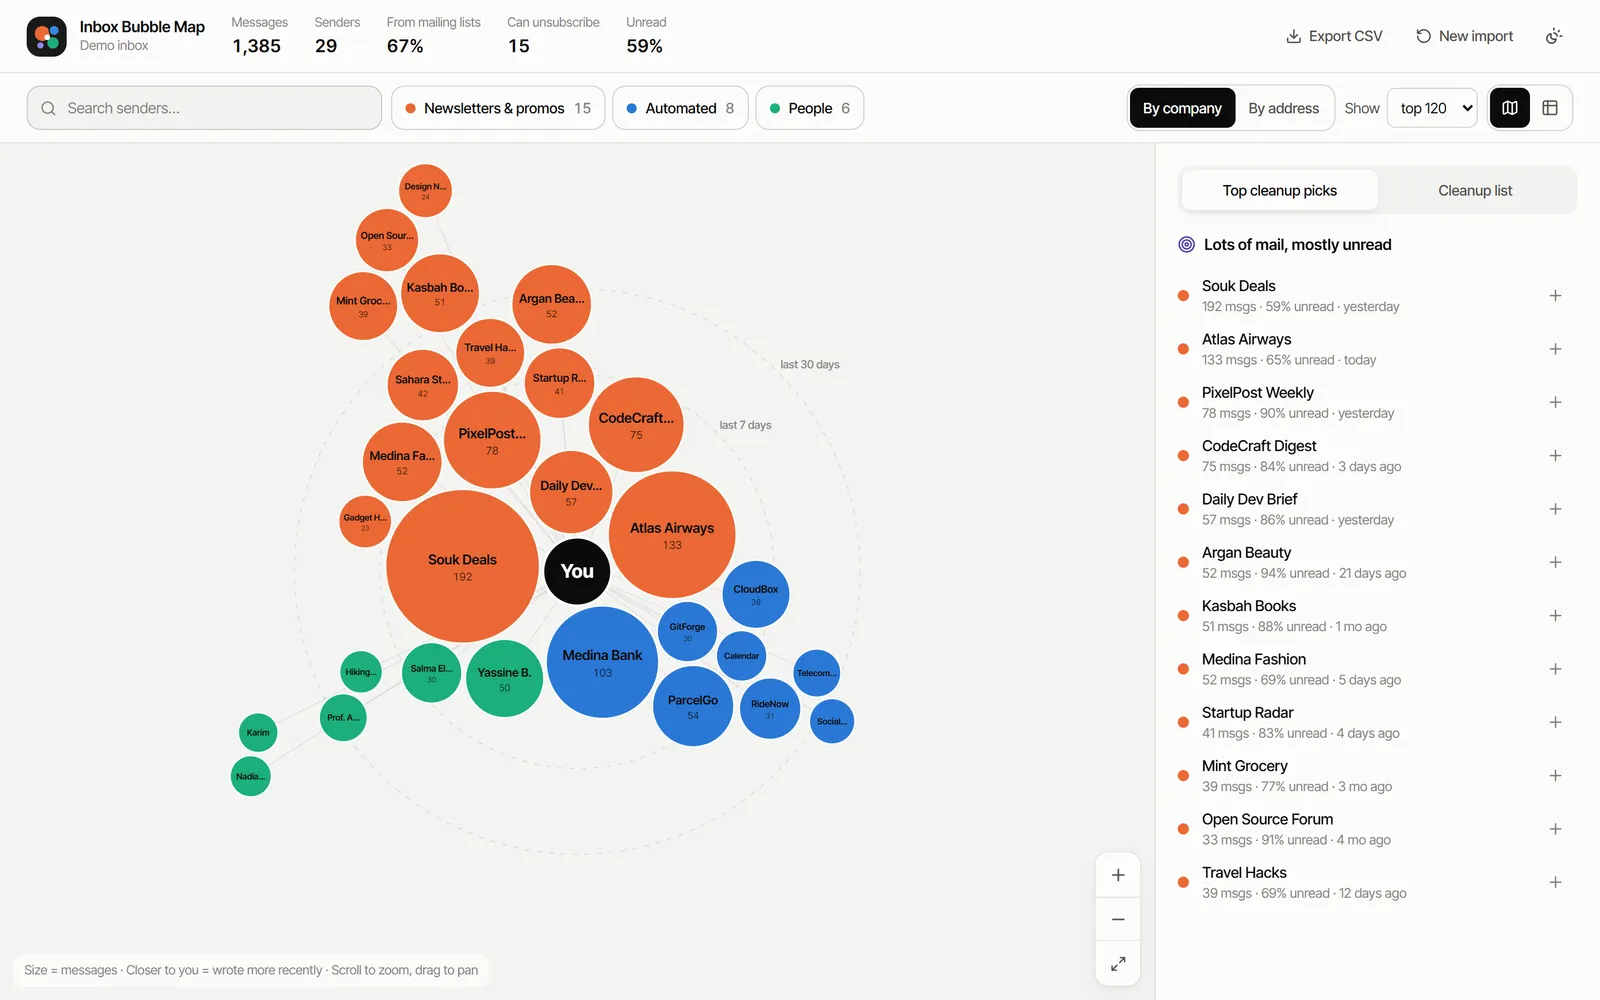
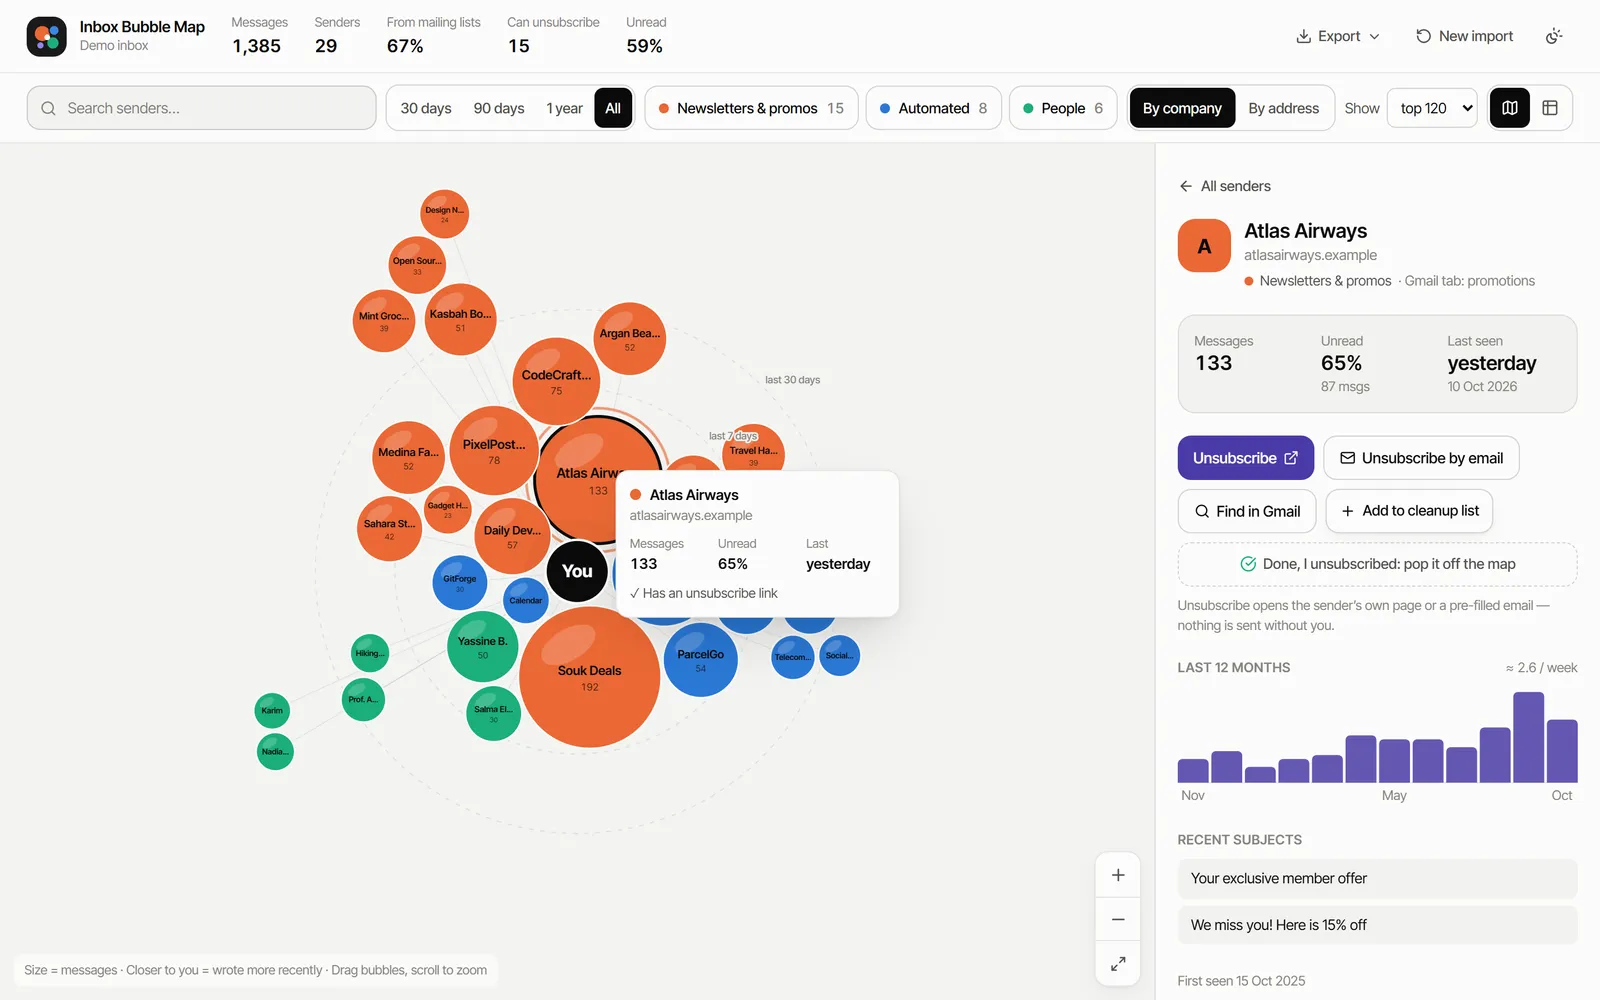
docs: README, changelog, wiki and env example for v0.4.0

diff --git a/README.md b/README.md
@@ -1,26 +1,26 @@
 # Inbox Bubble Map
 
-> See your email as a graph: you in the centre, every newsletter, service and person that writes to you as a bubble. Spot the lists you never open, and unsubscribe in a click. Everything runs in your browser.
+> See your email as a living map: you in the centre, every newsletter, service and person that writes to you as a floating bubble. Spot the lists you never open, unsubscribe, and pop them off the map.
 
 [![CI](https://github.com/Bosaj/inbox-bubble-map/actions/workflows/ci.yml/badge.svg)](https://github.com/Bosaj/inbox-bubble-map/actions/workflows/ci.yml)
 ![License: MIT](https://img.shields.io/badge/license-MIT-green)
-![Privacy](https://img.shields.io/badge/data-never%20leaves%20your%20browser-4a3aa7)
+![Privacy](https://img.shields.io/badge/reads-headers%20only-4a3aa7)
 
-**Live:** https://inbox-bubble-map.vercel.app · **Status:** v0.3 — bubble map, sender table, unsubscribe links and cleanup list shipped; generic IMAP is next.
+**Live:** https://inbox-bubble-map.vercel.app · **Status:** v0.4 — live physics map; Gmail, Outlook, Yahoo, iCloud and any IMAP provider; insights, filter exports.
 **Author:** Oussama EL HADJI. Part of the Bosaj ideas portfolio (sibling repo: `dual_portfolio_hub`).
 
-<p align="center"><img src="docs/map-light.webp" alt="Bubble map of a demo inbox: newsletters in orange, automated mail in blue, people in green, with a sender detail panel" width="820" /></p>
+<p align="center"><img src="docs/map-light.webp" alt="Bubble map with a sender panel: unsubscribe actions and a 12-month activity chart" width="820" /></p>
 <p align="center">
-  <img src="docs/map-dark.webp" alt="Dark theme" width="540" />
+  <img src="docs/map-dark.webp" alt="Dark theme, last 30 days, with inbox insights" width="520" />
   &nbsp;
-  <img src="docs/mobile-dark.webp" alt="Mobile layout" width="190" />
+  <img src="docs/connect.webp" alt="Connect Yahoo Mail with an app password" width="300" />
 </p>
 
 ---
 
 ## Problem
 
-People lose track of which newsletters and services email them. Bulk-unsubscribe tools exist, but they show long lists. A bubble map makes the mess visible at a glance: the biggest, most-ignored senders jump out.
+People lose track of which newsletters and services email them. Bulk-unsubscribe tools show long lists. A living bubble map makes the mess visible at a glance, and popping a bubble when you unsubscribe makes cleaning up feel good.
 
 ## How to read the map
 
@@ -30,67 +30,83 @@ People lose track of which newsletters and services email them. Bulk-unsubscribe
 | **Distance from "You"** | how long ago they last wrote (log scale; rings at 7 days, 30 days, 1 year) |
 | **Colour** | 🟠 newsletters & promos (has `List-Unsubscribe` / `List-Id` / bulk) · 🔵 automated (no-reply, alerts, receipts) · 🟢 people |
 
-Only three colours are used on purpose: in an all-pairs chart like this, three hues are the most that stay distinguishable for every reader, colour-blind included (validated with OKLab ΔE checks). The legend chips double as filters, every bubble has a label or tooltip, and a full **table view** is one click away.
+Only three colours are used on purpose. In an all-pairs chart like this, three hues are the most that stay distinguishable for every reader, colour-blind included (validated with OKLab ΔE checks). The legend chips double as filters, every bubble has a label or tooltip, and a full **table view** is one click away.
+
+## Connect any inbox
+
+| Provider | How | What is read |
+|---|---|---|
+| **Gmail** | Google sign-in (`gmail.metadata`) or an app password | headers + labels |
+| **Outlook / Hotmail / Microsoft 365** | Microsoft sign-in (`Mail.ReadBasic`) | headers, read state, Focused/Other |
+| **Yahoo, iCloud, AOL, GMX, Zoho, Fastmail, any IMAP** | app password through the relay | headers + read flag |
+| **Any export** | drop a `.mbox` (Google Takeout, Thunderbird, Apple Mail) or `.eml` | headers |
+| **Demo** | fictional inbox | — |
+
+Outlook.com switched off IMAP app passwords in September 2024, which is why Outlook uses Microsoft sign-in.
 
 ## Features
 
-- **Import without giving anything away.** Drop a Google Takeout `.mbox` (or `.eml` files). It is streamed in a Web Worker in constant memory, so multi-GB exports work. Only headers are read.
-- **Optional Gmail connect.** Uses the `gmail.metadata` scope (headers and labels only, never bodies). The token stays in memory. Turn it on by setting `VITE_GOOGLE_CLIENT_ID`.
-- **Demo inbox** with fictional senders, so you can try it in one click.
-- **Bubble map.** Zoom, pan, search highlighting, top-N cap, and grouping *by company* (subdomains merged) or *by address*.
-- **Sender details.** Messages, unread %, first/last seen, Gmail tab, recent subjects and all addresses.
-- **Cleanup actions.** *Unsubscribe* opens the sender's `List-Unsubscribe` page or a pre-filled email. *Find in Gmail* opens a `from:` search so you can archive in bulk. *Top cleanup picks* ranks senders by volume × unread × unsubscribable.
-- **Cleanup list and CSV export**, so you can work through your unsubscribes or keep a record.
-- Light/dark/system theme, responsive layout, reduced-motion aware, strict CSP on Vercel.
+- **Bubbles that move.** A live d3-force simulation with a gentle idle drift. Drag and fling any bubble and the others make room. Bubbles burst out of "You" on load and pop with particles when you clean a sender up (with undo). Motion pauses in background tabs and respects `prefers-reduced-motion`.
+- **Time range.** 30 days, 90 days, 1 year or everything, measured from your newest message.
+- **Insights.** Share of mail from lists, list emails per week, senders you never open, top-5 concentration, and how many emails a year your cleanup list will save you.
+- **Sender detail.** Messages, unread %, last/first seen, a 12-month activity chart, recent subjects and addresses.
+- **Clean up.** *Unsubscribe* opens the `List-Unsubscribe` page or a pre-filled email. *Find in Gmail* searches `from:` for bulk archive. *Top cleanup picks* ranks by volume × unread × unsubscribable.
+- **Exports.** CSV, **Gmail filters** (`.xml`: skip inbox and mark read), **Sieve** rules (Fastmail, Proton, Posteo, cPanel…), and the **map as a PNG**.
+- Search, grouping by company or address, zoom/pan, light/dark/system theme, responsive layout, strict CSP.
 
 ## Privacy
 
-- No backend, analytics or cookies. The app is static files.
-- The `.mbox` is parsed locally; message bodies are skipped, never stored.
-- Nothing is persisted: close the tab and the analysis is gone. Only the theme choice goes to `localStorage`.
-- Unsubscribe links come from the emails themselves and are only opened when you click them. Only `https:` and `mailto:` links are accepted.
+- Only headers are read: From, Date, Subject, List-Unsubscribe(-Post), List-Id, Precedence and read state. Never bodies or attachments.
+- Files, Google sign-in and Microsoft sign-in run **entirely in your browser**. Tokens stay in the tab.
+- Browsers can't open IMAP connections, so app-password providers go through `/api/imap`, a Vercel Function. Per request it connects over TLS, reads the newest N header blocks, returns them and disconnects. It **never stores or logs** credentials or mail.
+- **Relay hardening.** Port 993/TLS only; public hostnames only (DNS checked, private ranges refused, connection pinned to the checked address); same-origin requests only; 4 KB body limit; per-IP rate limit and a lockout after failed logins; `Cache-Control: no-store`.
+- No analytics, no cookies. Nothing is saved when you close the tab (only the theme choice).
+- Unsubscribe links come from the emails and open only when you click them. Only `https:` and `mailto:` links are accepted.
 
 ## Architecture
 
 ```
+api/imap.ts             IMAP header relay (Vercel Function): validation, SSRF guard, rate limit, imapflow
 src/lib/headers.ts      RFC 2047 decoding, From / List-Unsubscribe / Date parsing
 src/lib/mbox.ts         streaming mbox reader (header blocks only, folding, CRLF)
 src/lib/parse.worker.ts Web Worker: File.stream() → parser, progress events
-src/lib/gmail.ts        optional Gmail API client (GIS token, paging, retry, concurrency)
-src/lib/aggregate.ts    group by company/address, categorise, cleanup score, CSV
-src/lib/layout.ts       deterministic d3-force layout (radial recency + collision)
-src/lib/demo.ts         fictional demo inbox
-src/components/         React UI (map, side panel, table, import screen)
+src/lib/gmail.ts        Gmail API client (GIS token, paging, retry, concurrency)
+src/lib/outlook.ts      Microsoft Graph client (MSAL v5 popup, paging, header fallback)
+src/lib/providers.ts    provider presets + relay client
+src/lib/aggregate.ts    grouping, categories, months, insights, CSV / Gmail filters / Sieve
+src/lib/layout.ts       scales + shared d3-force setup (static layout for tests and first frame)
+src/components/         BubbleMap (live physics), ConnectDialog, Insights, SidePanel, SenderTable…
 ```
 
-19 Vitest tests cover header decoding, chunk-independent mbox parsing, aggregation, the layout (no overlaps), the Gmail client (paging, 429 retry) and the main UI flows.
+34 Vitest tests cover header decoding, chunk-independent mbox parsing, aggregation and insights, exports (Gmail XML parses, Sieve escaping), the layout, the Gmail and Graph clients (paging, retries, header fallback), and the relay (validation, SSRF, rate limit, origin check, no credential echo). The relay's imapflow path was also run end-to-end against a GreenMail IMAP server.
 
 ## Getting started
 
 ```bash
 npm install
-npm run dev        # http://localhost:5173
+npm run dev        # http://localhost:5173 (the dev server also serves /api/imap)
 npm test
 npm run build
 ```
 
-Optional Gmail connect: copy `.env.example` to `.env`, create a Google OAuth **Web** client, add your origins and set `VITE_GOOGLE_CLIENT_ID`. Unverified Google apps are limited to test users you add in the consent screen.
+Optional sign-ins: copy `.env.example` to `.env` and set `VITE_GOOGLE_CLIENT_ID` and/or `VITE_MS_CLIENT_ID`. Every step is in that file. Without them, Gmail still works through an app password, and Outlook users are guided to an `.mbox` export.
 
 ## Roadmap
 
 - [x] v0.1 — sender aggregation table, mbox import + Gmail metadata connect — [#1](https://github.com/Bosaj/inbox-bubble-map/issues/1)
 - [x] v0.2 — force-directed bubble graph — [#2](https://github.com/Bosaj/inbox-bubble-map/issues/2)
 - [x] v0.3 — unsubscribe links, Gmail search for bulk archive, cleanup list + CSV — [#3](https://github.com/Bosaj/inbox-bubble-map/issues/3)
-- [ ] v0.4 — other providers (generic IMAP) — [#4](https://github.com/Bosaj/inbox-bubble-map/issues/4). Browsers can't speak IMAP, so this needs a small local bridge or desktop wrapper.
+- [x] v0.4 — live physics, any provider (IMAP relay + Outlook), insights, filter exports — [#4](https://github.com/Bosaj/inbox-bubble-map/issues/4), [#7](https://github.com/Bosaj/inbox-bubble-map/issues/7)–[#10](https://github.com/Bosaj/inbox-bubble-map/issues/10)
+- [ ] Next — one-click RFC 8058 unsubscribe relay and optional in-app bulk archive — [#5](https://github.com/Bosaj/inbox-bubble-map/issues/5)
 
 ---
 
 ## For LLM agents & contributors continuing this project
 
-- Keep it client-side. If a backend is ever added for IMAP, keep credentials on the user's machine and never log them.
-- Request the narrowest Gmail scope that works (`gmail.metadata`). Never fetch or store bodies.
+- Keep the client-side paths client-side. The relay must stay stateless: no storage, no logs of credentials or mail, headers only.
+- Request the narrowest scopes (`gmail.metadata`, `Mail.ReadBasic`). Never fetch or store bodies.
 - Don't add colours to the map: three categories are the validated maximum for this chart form. Use filters, labels or the table instead.
-- Parser changes need tests in `src/lib/lib.test.ts`, including the chunking test.
+- Parser or relay changes need tests (`src/lib/lib.test.ts`, `src/lib/v04.test.ts`).
 
 **Ground rules:** keep this README in sync with reality; write tests for anything correctness-critical; never commit secrets; follow Conventional Commits (see `CONTRIBUTING.md`).
 

diff --git a/wiki/1-Architecture.md b/wiki/1-Architecture.md
@@ -1,16 +1,17 @@
 # 1. Architecture
 
-Static, client-side React + Vite app. No backend, analytics or persistence beyond the theme setting.
+Client-side React + Vite app. The only server code is a stateless IMAP header relay (`api/imap.ts`, a Vercel Function) used for app-password providers. No analytics, and nothing is persisted beyond the theme setting.
 
 ## Data flow
-1. **Import.** Either a `.mbox`/`.eml` file streamed in a Web Worker (`parse.worker.ts` → `MboxParser`), or the optional Gmail API (`gmail.ts`, `gmail.metadata` scope).
+1. **Import.** One of: a `.mbox`/`.eml` file streamed in a Web Worker; the Gmail API (`gmail.metadata`); Microsoft Graph (`Mail.ReadBasic`, MSAL v5 popup with the `redirect.html` bridge); or the `/api/imap` relay for app-password providers.
 2. **Headers to `MessageMeta`.** From, Date, Subject, List-Unsubscribe(-Post), List-Id, Precedence and Gmail labels (`headers.ts`).
 3. **Aggregate.** Messages are grouped by company (root domain) or by address. Each sender gets a count, unread count, first/last seen, a category (bulk, automated or people), unsubscribe targets and recent subjects (`aggregate.ts`).
 4. **Layout.** A deterministic d3-force simulation runs synchronously (`layout.ts`). The radial force uses log(days since last message), collision keeps bubbles apart and a weak sector force groups the categories.
-5. **UI.** SVG map with d3-zoom, side panel, sortable table, cleanup list and CSV export.
+5. **UI.** Live physics map (continuous d3-force + drift, DOM updates per tick, drag & fling, pop animation), side panel with insights and activity chart, sortable table, cleanup list, exports (CSV, Gmail filters, Sieve, PNG).
 
 ## Privacy model
 - Message bodies are skipped during parsing, never stored.
+- The IMAP relay is stateless: port 993/TLS only, SSRF guard with pinned DNS result, same-origin, rate limit, failed-login lockout, never logs credentials or mail.
 - The Gmail token lives in memory only. Requests go straight from the browser to `gmail.googleapis.com`.
 - Unsubscribe URLs come from the emails and are only opened on click. Only `https:` and `mailto:` links are accepted.
 - Vercel serves a strict CSP: same-origin scripts, plus Google Identity Services only when Gmail connect is used.

diff --git a/CHANGELOG.md b/CHANGELOG.md
@@ -4,6 +4,18 @@ All notable changes to this project are documented here. Format: [Keep a Changel
 
 ## [Unreleased]
 
+## [0.4.0] - 2026-10-10
+### Added
+- Live physics map: a continuous d3-force simulation with idle drift, rendered by direct DOM updates. Drag and fling bubbles, burst-out entrance, hover wobble, and a pop-with-particles animation (with undo) when a sender is cleaned. Pauses in background tabs and respects reduced motion. (#7)
+- Connect any provider. Microsoft sign-in for Outlook / Hotmail / Microsoft 365 (MSAL v5 popup, Graph Mail.ReadBasic, paging, header fallback). (#8) An IMAP header relay (`api/imap.ts`) with presets for Gmail, Yahoo, iCloud, AOL, GMX, Zoho, Fastmail and custom servers, plus per-provider app-password steps. (#4)
+- Relay hardening: TLS on port 993 only, a public-DNS SSRF guard with a pinned address, same-origin check, body limit, per-IP rate limit and failed-login lockout. No storage or logging.
+- Time range filter (30 days / 90 days / 1 year / all), insight tiles, and a 12-month activity chart per sender. (#9)
+- Export menu: CSV, Gmail filters (.xml), Sieve rules (.sieve) and the map as a PNG. (#10)
+
+### Changed
+- Import screen redesigned around provider tiles; the privacy notice now describes the relay.
+- The map toolbar is a single scrollable row on phones.
+
 ## [0.3.0] - 2026-10-10
 First working release: roadmap milestones v0.1–v0.3.
 
@@ -23,5 +35,6 @@ First working release: roadmap milestones v0.1–v0.3.
 ### Added
 - Initial repository scaffold: README (with architecture, roadmap and an LLM-handoff section), LICENSE, .gitignore, CONTRIBUTING, issue/PR templates, and wiki pages.
 
-[Unreleased]: https://github.com/Bosaj/inbox-bubble-map/compare/v0.3.0...HEAD
+[Unreleased]: https://github.com/Bosaj/inbox-bubble-map/compare/v0.4.0...HEAD
+[0.4.0]: https://github.com/Bosaj/inbox-bubble-map/releases/tag/v0.4.0
 [0.3.0]: https://github.com/Bosaj/inbox-bubble-map/releases/tag/v0.3.0

diff --git a/wiki/2-Roadmap.md b/wiki/2-Roadmap.md
@@ -3,10 +3,9 @@
 - [x] v0.1 — sender aggregation table, mbox import + Gmail metadata connect — #1
 - [x] v0.2 — force-directed bubble graph — #2
 - [x] v0.3 — unsubscribe links, Gmail search for bulk archive, cleanup list + CSV — #3 (released as v0.3.0)
-- [ ] v0.4 — other providers (generic IMAP) — #4
+- [x] v0.4 — live physics map, any provider (IMAP relay + Outlook sign-in), insights, Gmail/Sieve filter exports, map PNG — #4, #7–#10 (released as v0.4.0)
 
 ## Next
-- Generic IMAP needs a local bridge or desktop wrapper, because browsers cannot open IMAP sockets.
 - Optional in-app bulk archive (needs the restricted `gmail.modify` scope) and RFC 8058 one-click POST (blocked by CORS in browsers, so it needs a relay).
 
 ## Notes for contributors / LLM agents
